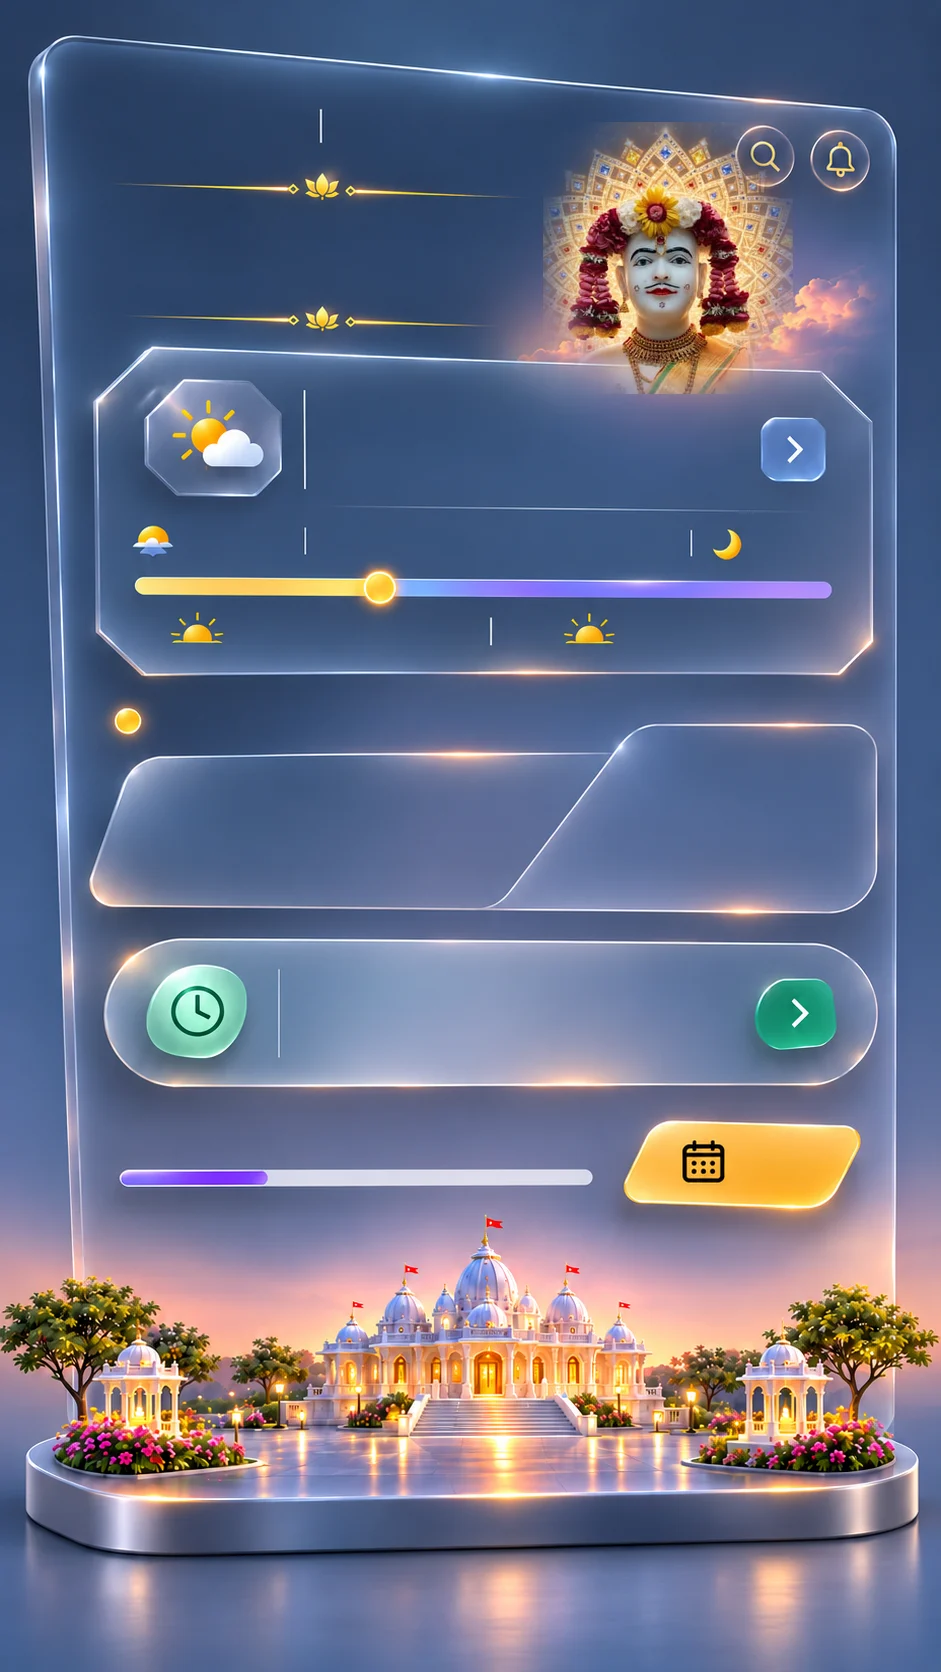
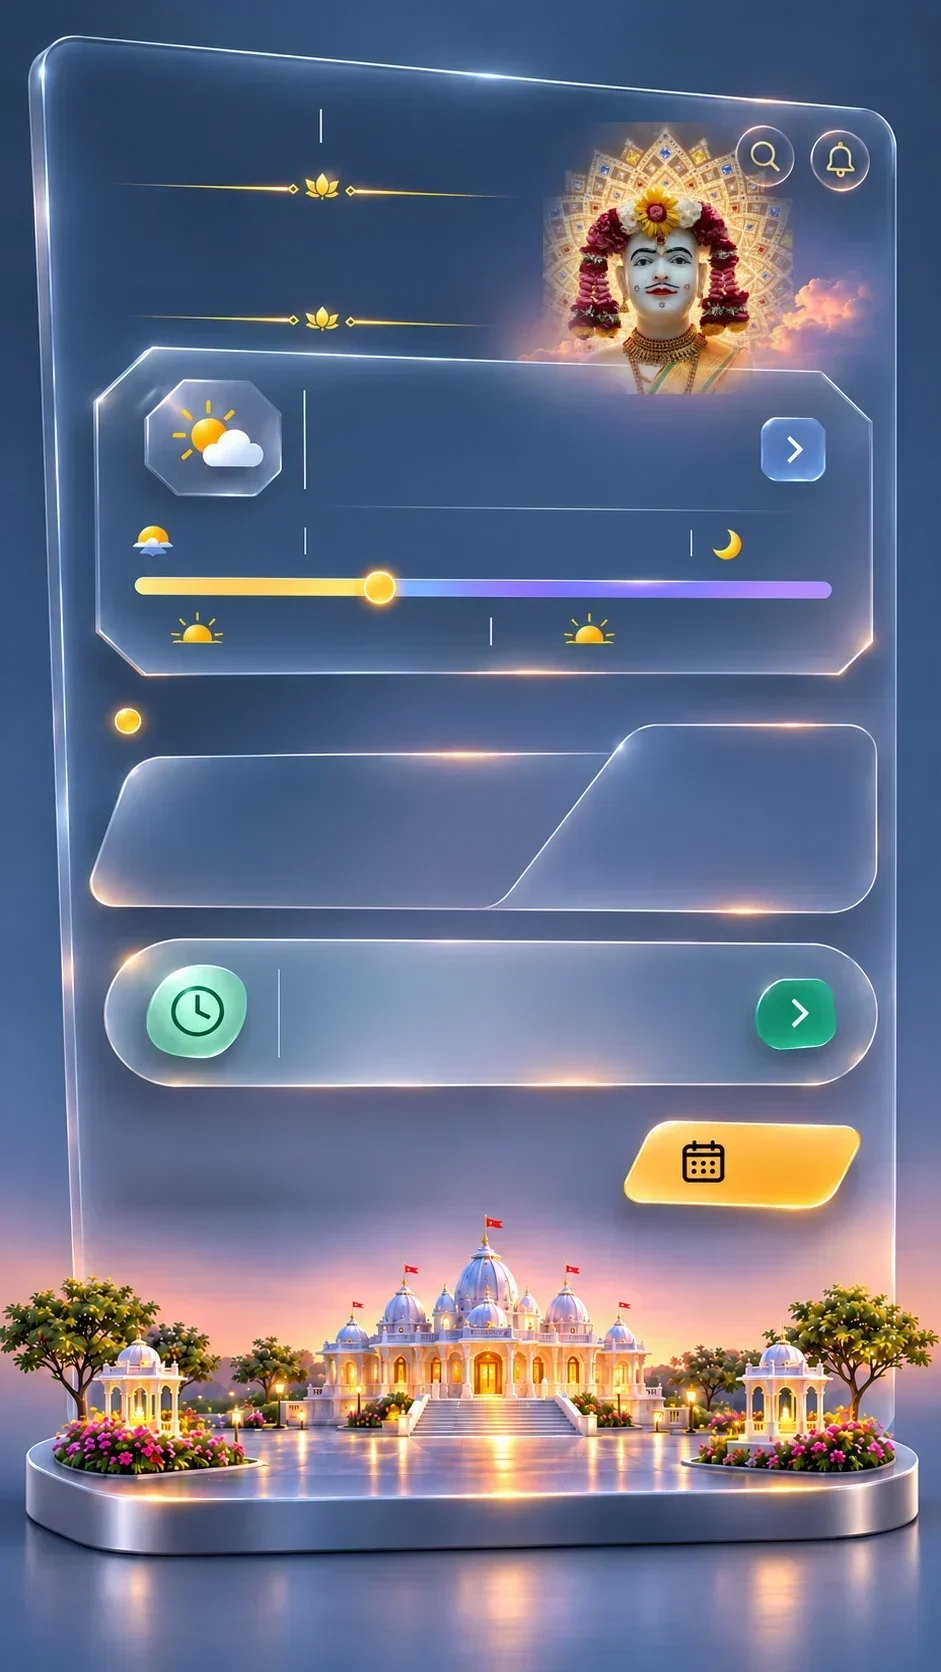
મુખ્ય પેજ: લાઇન ચિત્રમાંથી જ કાઢી, લખાણ કપાતું નથી
Claude-Session: https://claude.ai/code/session_01Qxn7f5snExCok8NrY7HfgB

diff --git a/index.html b/index.html
@@ -540,7 +540,6 @@ body[data-g="kids"]{--bg:#F5C4C4}body[data-g="youth"]{--bg:#FBE39C}body[data-g="
  <div class="ft f-xv" style="left:32.944%;top:58.911%" id="frxv"></div>
  <div class="ft f-xs" style="left:32.944%;top:61.722%" id="frxs"></div>
  <div class="ft f-pt" style="left:12.540%;top:66.746%" id="frpt"></div>
- <div class="barpatch" style="left:30.5%;top:68.4%;width:35%;height:3.4%"></div>
  <i id="frpb" style="display:none"></i>
  <div class="ft f-day" style="left:79.915%;top:68.182%" id="frday"></div>
  <button class="f-hit" style="left:66.419%;top:66.986%;width:25%;height:5.2%" id="frdayb" aria-label="આખો દિવસ"></button>
@@ -649,7 +648,7 @@ function draw(){const n=now(),d=new Date(n+OFF),day=d.getUTCDate(),mon=d.getUTCM
  else if(cur){lab="હમણાં ચાલુ છે";const[t1,t2]=split(cur.a);na=t1;ns=[cur.v,cur.e===1439?t12(cur.s)+" પછી":dur(cur.E-T)+" બાકી"].filter(Boolean).join(" • ");im=img(cur.a)}
  else if(nx){na="થોડો વિરામ";ns="હવે પછીનો કાર્યક્રમ "+dur(nx.S-T)+" પછી";im="k/vishram.webp"}
  else{lab="શિબિર";na="બધા કાર્યક્રમ પૂરા થયા";ns="સૌનો આભાર. જય સ્વામિનારાયણ";im="k/ashirvad.webp"}
- $("frlab").textContent=lab;$("frna").textContent=na;$("frns").textContent=ns;fitText($("frna"),400);fitText($("frns"),400);
+ $("frlab").textContent=lab;$("frna").textContent=na;$("frns").textContent=ns;fitText($("frna"),370);fitText($("frns"),370);
  const ii=$("frimg").querySelector("img");if(ii.getAttribute("src")!==im)ii.src=im;
  if(nx){const[t1]=split(nx.a);$("frxk").textContent="હવે પછી, "+dur(nx.S-T)+" પછી";$("frxv").textContent=t1;$("frxs").textContent=(nx.d!==day?WDS[new Date(Date.UTC(2026,10,nx.d)).getUTCDay()]+", ":"")+t12(nx.s);fitText($("frxv"),440);fitText($("frxk"),440)}
  else{$("frxk").textContent="";$("frxv").textContent="બધા કાર્યક્રમ પૂરા";$("frxs").textContent=""}
